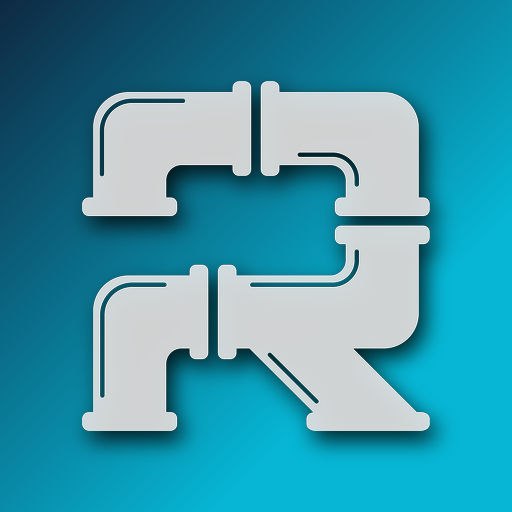
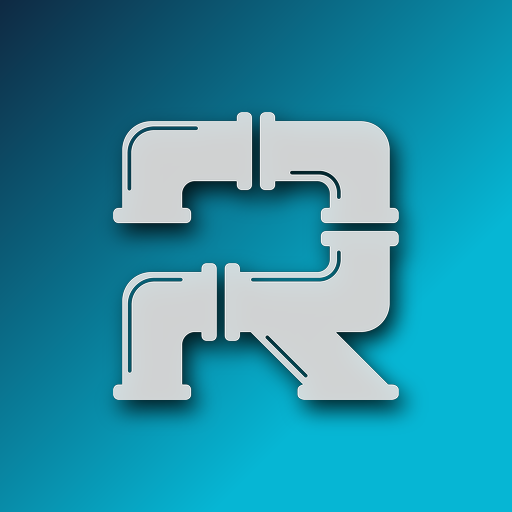
Add files via upload

Changed region(s): [[0.1562, 0.1562, 0.875, 0.9062]]

diff --git a/index.html b/index.html
@@ -149,10 +149,8 @@
         </div>
       </div>
       <button type="button" class="przycisk" style="margin-top:4px;" id="dNowy">＋ Nowe tankowanie</button>
-      <div class="dwa">
-        <button type="button" class="przycisk-drugi" id="dWpisy">📋 Moje wpisy</button>
-        <button type="button" class="przycisk-drugi" id="dMiesiacBtn">✅ Zamykam miesiąc</button>
-      </div>
+      <button type="button" class="przycisk-drugi" id="dWpisy">📋 Moje wpisy</button>
+      <button type="button" class="przycisk-drugi" id="dMiesiacBtn">✅ Zamykam miesiąc</button>
     </div>
     <div class="karta">
       <h2>Ostatnie wpisy</h2>
@@ -192,7 +190,7 @@
           <div class="blad-pola" id="b-opis"></div>
         </div>
         <div class="pole" id="p-ilosc">
-          <label>Ilość (litry lub sztuki) <span class="wym">*</span></label>
+          <label id="labelIlosc">Ilość (litry lub sztuki) <span class="wym">*</span></label>
           <input type="text" inputmode="decimal" id="f-ilosc" placeholder="np. 45,5">
           <div class="blad-pola" id="b-ilosc"></div>
         </div>
@@ -252,7 +250,7 @@
   <div class="p">
     <button class="przycisk-maly" id="dialogNie" type="button">Nie</button>
     <button class="przycisk" style="margin-top:0; padding:10px; font-size:16px;"
-            id="dialogTak" type="button">Tak, zamykam</button>
+            id="dialogTak" type="button">Tak</button>
   </div>
 </dialog>
 
@@ -434,6 +432,16 @@ function przelaczPola() {
   var o = opisInfo(el('f-opis').value);
   if (o && o.czyPaliwo && czyLicznikPotrzebny(przezn)) pokaz('licznikWym');
   else schowaj('licznikWym');
+
+  var jednostkaTekst = o ? (o.czyPaliwo ? 'litry' : 'sztuki') : 'litry lub sztuki';
+  el('labelIlosc').innerHTML = 'Ilość (' + jednostkaTekst + ') <span class="wym">*</span>';
+}
+
+// ---------- jednostka ilości w listach ----------
+function jednostkaOpisu(nazwaOpisu) {
+  var o = opisInfo(nazwaOpisu);
+  if (!o) return '';
+  return o.czyPaliwo ? 'l' : 'szt.';
 }
 
 function dzisiaj() {
@@ -710,7 +718,8 @@ function rysujDashboard() {
     div.className = 'wpis';
     div.innerHTML = '<div class="linia1"><span>' + w.dataZakupu.substring(5).split('-').reverse().join('.') +
       ' · ' + w.przeznaczenie + '</span><span>' + String(w.wartosc).replace('.', ',') + ' zł</span></div>' +
-      '<div class="linia2">' + w.opis + ' · ' + String(w.ilosc).replace('.', ',') + ' · ' + w.budowa + '</div>';
+      '<div class="linia2">' + w.opis + ' · ' + String(w.ilosc).replace('.', ',') +
+      (jednostkaOpisu(w.opis) ? ' ' + jednostkaOpisu(w.opis) : '') + ' · ' + w.budowa + '</div>';
     lista.appendChild(div);
   });
 }
@@ -805,6 +814,7 @@ function wczytajWpisy() {
         '<div class="linia1"><span>' + w.dataZakupu + ' · ' + w.przeznaczenie + '</span>' +
         '<span>' + String(w.wartosc).replace('.', ',') + ' zł</span></div>' +
         '<div class="linia2">' + w.opis + ' · ' + String(w.ilosc).replace('.', ',') +
+        (jednostkaOpisu(w.opis) ? ' ' + jednostkaOpisu(w.opis) : '') +
         ' · ' + w.budowa + (w.dodatkoweInfo ? ' · ' + w.dodatkoweInfo : '') + '</div>' + akcja;
       var bp = div.querySelector('.btn-popraw');
       if (bp) bp.addEventListener('click', function () { rozpocznijEdycje(w); });

diff --git a/service-worker.js b/service-worker.js
@@ -12,7 +12,7 @@
  * Po zmianie plikow aplikacji podbij numer wersji ponizej.
  */
 
-var WERSJA_CACHE = 'flota-shell-v4';
+var WERSJA_CACHE = 'flota-shell-v6';
 
 var PLIKI_SHELL = [
   './',